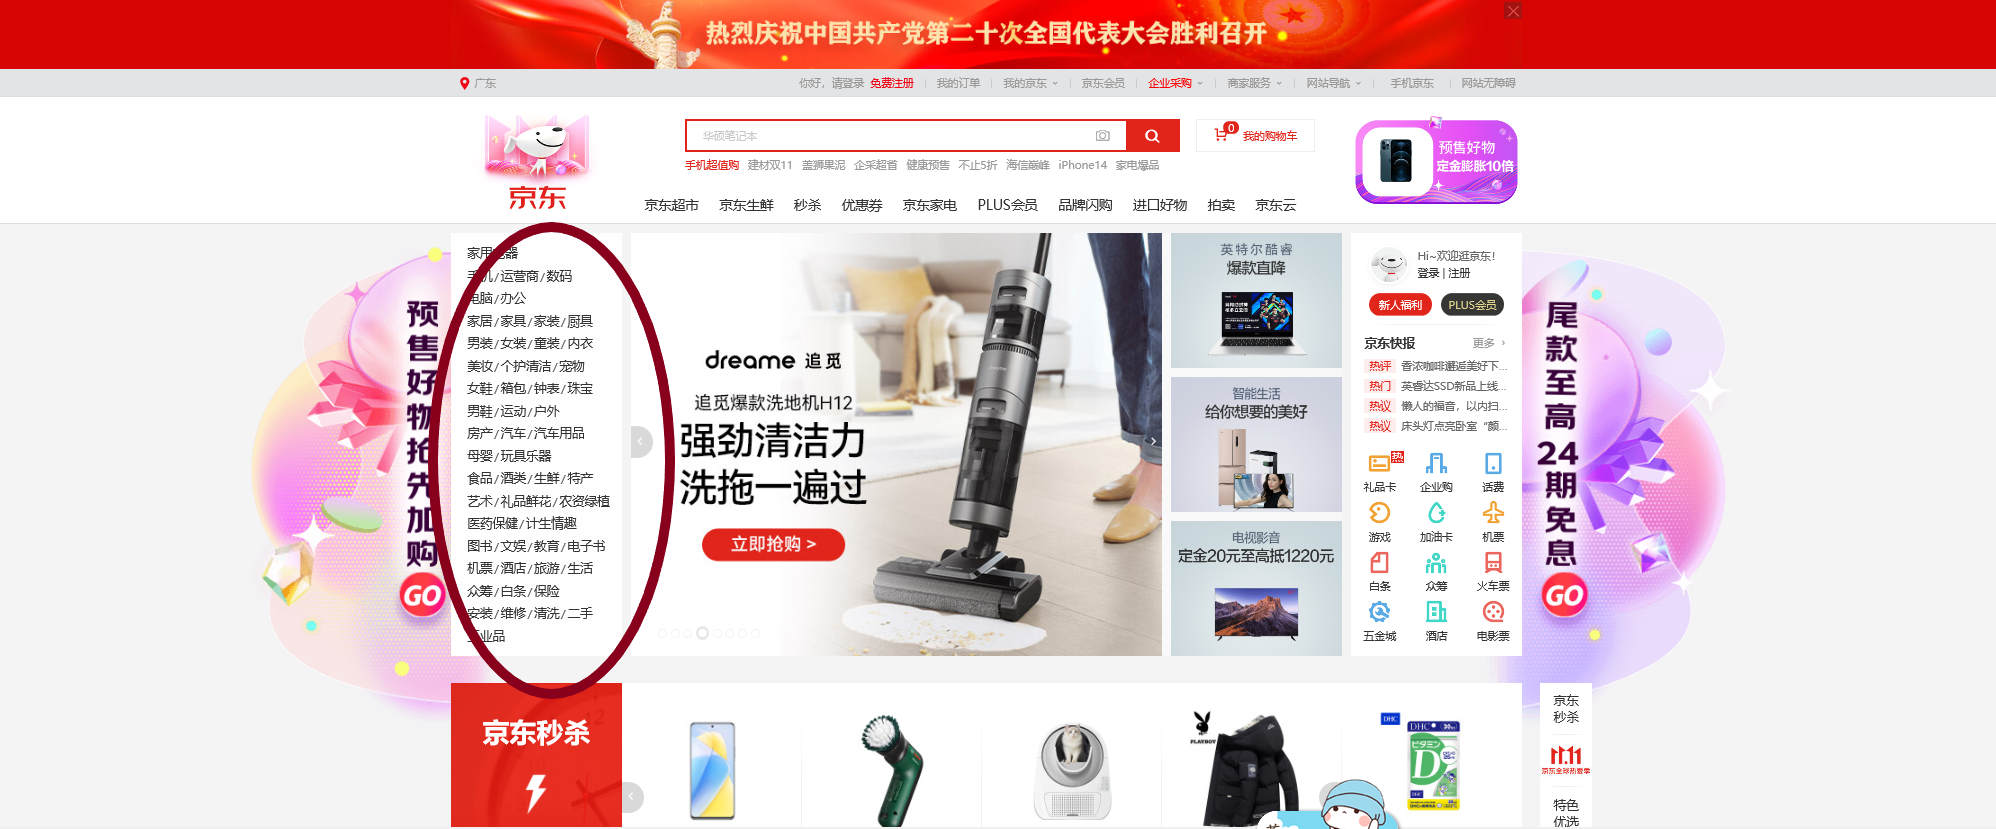
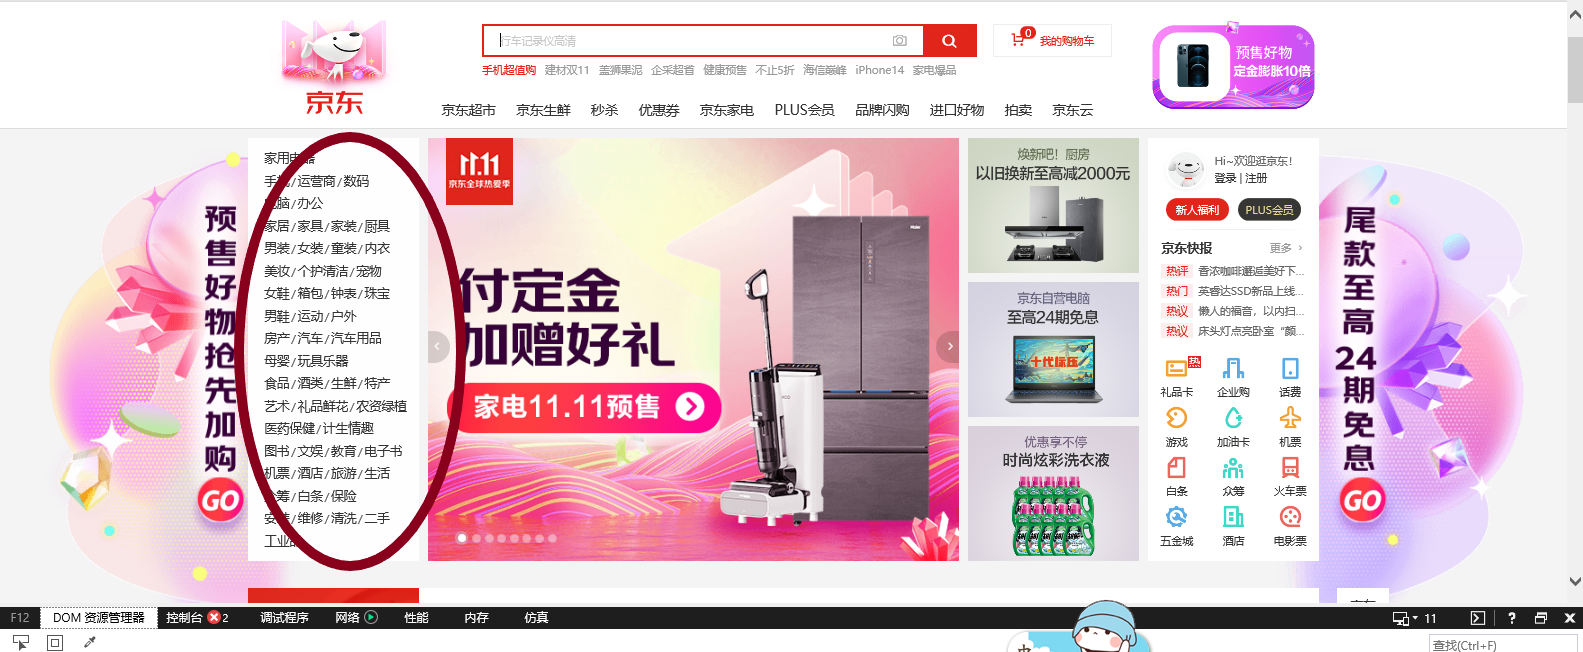
1

diff --git a/布局/京东侧边标题栏/README.md b/布局/京东侧边标题栏/README.md
@@ -1,0 +1,2 @@
+这里主要是模仿京东侧边标题栏，如下所示：
+![京东侧边标题栏](./index.png)
